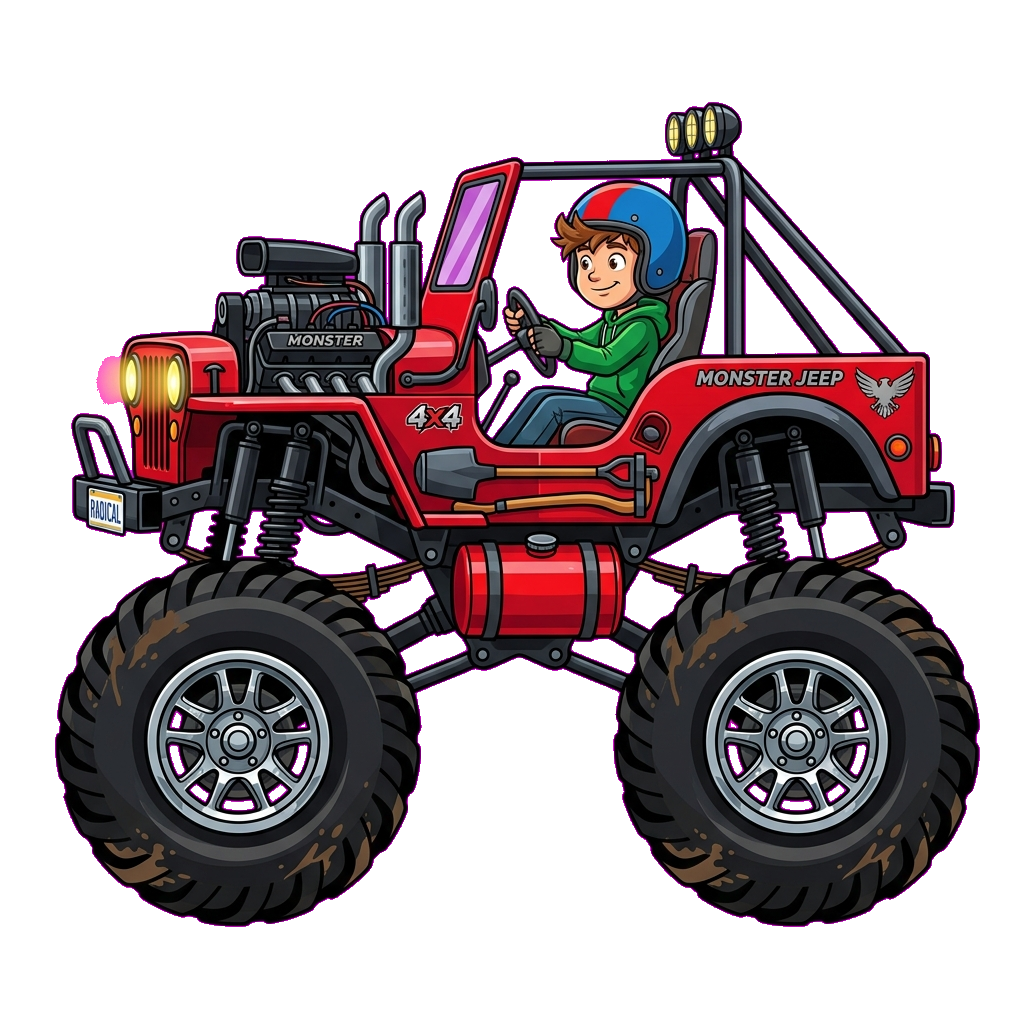
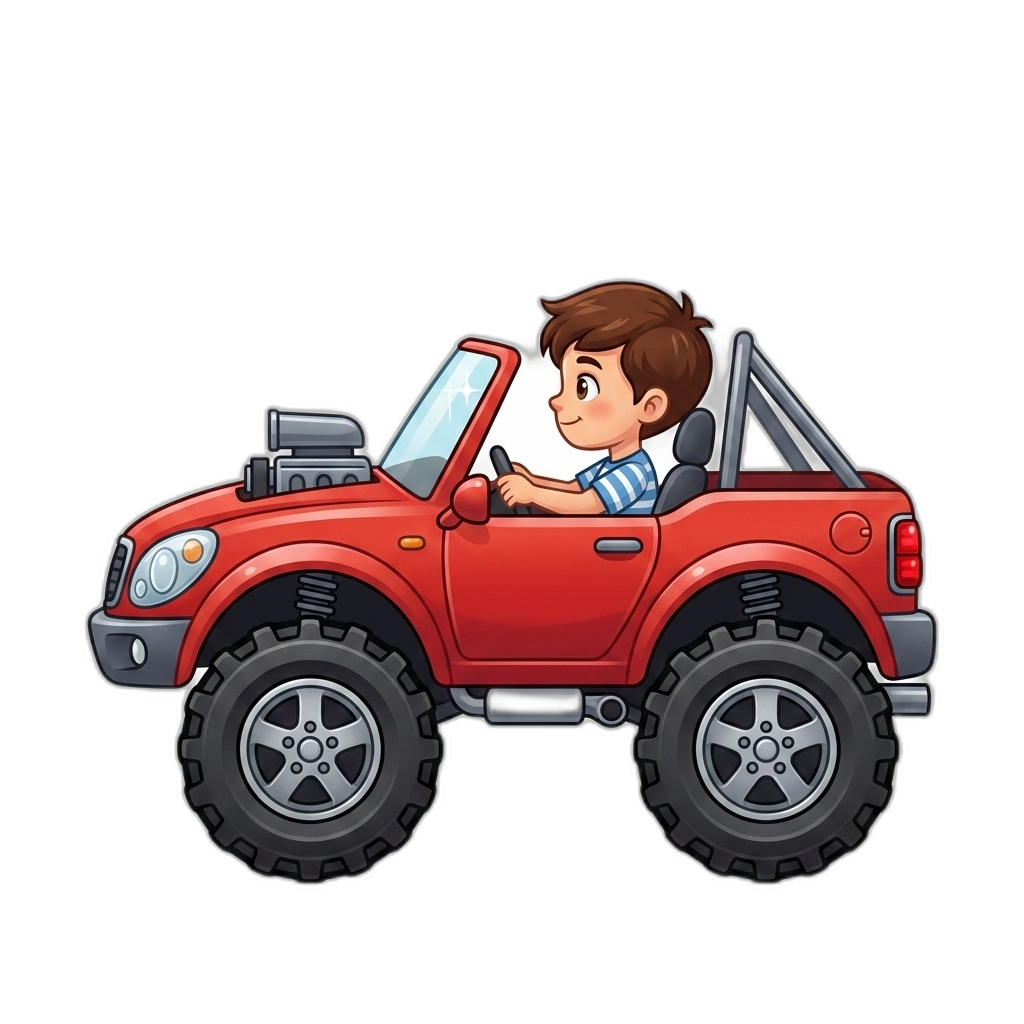
Update game with new jeep and seamless night background

diff --git a/src/scenes/BootScene.ts b/src/scenes/BootScene.ts
@@ -8,6 +8,7 @@ export class BootScene extends Phaser.Scene {
   preload() {
     this.load.image('real_car', 'car.png');
     this.load.image('driver', 'driver.png');
+    this.load.image('night_bg', 'night_bg_seamless.png');
     
     // Generate clean vector textures for everything else
     this.generateTextures();
@@ -18,16 +19,21 @@ export class BootScene extends Phaser.Scene {
   }
 
   private generateTextures() {
+    // Clear old textures
+    const keys = ['clean_wheel', 'clean_coin', 'clean_fuel'];
+    for (const key of keys) {
+      if (this.textures.exists(key)) this.textures.remove(key);
+    }
+
     const graphics = this.make.graphics({ x: 0, y: 0 }, false);
 
-    // Wheel texture (Dark grey tire, light grey rim, dots for rotation tracking)
+    // Wheel texture
     graphics.fillStyle(0x222222, 1);
     graphics.fillCircle(25, 25, 25);
     graphics.fillStyle(0x888888, 1);
     graphics.fillCircle(25, 25, 12);
     graphics.fillStyle(0x000000, 1);
     graphics.fillCircle(25, 25, 4);
-    // Draw bolts to make rotation visible
     graphics.fillStyle(0x000000, 1);
     graphics.fillCircle(25, 17, 3);
     graphics.fillCircle(25, 33, 3);
@@ -36,7 +42,7 @@ export class BootScene extends Phaser.Scene {
     graphics.generateTexture('clean_wheel', 50, 50);
     graphics.clear();
 
-    // Coin (Beautiful gold coin with a rim)
+    // Coin
     graphics.fillStyle(0xffaa00, 1);
     graphics.fillCircle(20, 20, 20);
     graphics.fillStyle(0xffd700, 1);
@@ -46,114 +52,14 @@ export class BootScene extends Phaser.Scene {
     graphics.generateTexture('clean_coin', 40, 40);
     graphics.clear();
 
-    // Fuel Pickup (Red jerry can)
+    // Fuel Pickup
     graphics.fillStyle(0xff0000, 1);
     graphics.fillRoundedRect(0, 5, 30, 35, 4);
     graphics.fillStyle(0xcc0000, 1);
-    graphics.fillRect(5, 15, 20, 20); // label
+    graphics.fillRect(5, 15, 20, 20);
     graphics.fillStyle(0x333333, 1);
-    graphics.fillRect(10, 0, 10, 5); // nozzle
+    graphics.fillRect(10, 0, 10, 5);
     graphics.generateTexture('clean_fuel', 30, 40);
-    graphics.clear();
-
-    this.generateBackgrounds();
-  }
-
-  private generateBackgrounds() {
-    const graphics = this.make.graphics({ x: 0, y: 0 }, false);
-
-    // Sky Gradient (just a tall solid color for now, light blue)
-    graphics.fillStyle(0x87CEEB, 1);
-    graphics.fillRect(0, 0, 1024, 1024);
-    graphics.generateTexture('bg_sky', 1024, 1024);
-    graphics.clear();
-
-    // Mountains (distant, bluish with snow caps)
-    for (let i = -100; i < 1100; i += 120 + Math.random() * 50) {
-      const height = 1024 - 300 - Math.random() * 300; // random peak height
-      const width = 150 + Math.random() * 100;
-      const peakX = i + width / 2;
-      
-      // Mountain Base
-      graphics.fillStyle(0x3E5A74, 1);
-      graphics.beginPath();
-      graphics.moveTo(i, 1024);
-      graphics.lineTo(peakX, height);
-      graphics.lineTo(i + width, 1024);
-      graphics.closePath();
-      graphics.fillPath();
-
-      // Snow Cap
-      graphics.fillStyle(0xE0F7FA, 1); // Ice white
-      graphics.beginPath();
-      const snowDepth = 100; 
-      const ratio = (width / 2) / (1024 - height);
-      const dx = snowDepth * ratio;
-      
-      graphics.moveTo(peakX, height); // Peak
-      graphics.lineTo(peakX - dx, height + snowDepth); // Left snow edge
-      graphics.lineTo(peakX - dx/2, height + snowDepth + 20); // Jagged middle left
-      graphics.lineTo(peakX + dx/2, height + snowDepth - 10); // Jagged middle right
-      graphics.lineTo(peakX + dx, height + snowDepth); // Right snow edge
-      graphics.closePath();
-      graphics.fillPath();
-    }
-    graphics.generateTexture('bg_mountains', 1024, 1024);
-    graphics.clear();
-
-    // Hills (midground, light green)
-    graphics.fillStyle(0x3E8E41, 1);
-    graphics.beginPath();
-    graphics.moveTo(0, 1024);
-    for(let i=0; i<1024; i+=150) {
-      graphics.lineTo(i + 75, 1024 - 250 - Math.random() * 100);
-      graphics.lineTo(i + 150, 1024);
-    }
-    graphics.lineTo(1024, 1024);
-    graphics.closePath();
-    graphics.fillPath();
-    graphics.generateTexture('bg_hills', 1024, 1024);
-    graphics.clear();
-
-    // Trees (foreground, beautiful multi-tiered pine trees)
-    for (let i = 20; i < 1024; i += 80 + Math.random() * 60) {
-      const trunkX = i;
-      const trunkY = 1024 - 40;
-      
-      // Trunk
-      graphics.fillStyle(0x5D4037, 1); // Dark brown
-      graphics.fillRect(trunkX, trunkY, 16, 40);
-
-      const center = trunkX + 8; // Center of the trunk
-      
-      // Bottom layer
-      graphics.fillStyle(0x1B5E20, 1); // Dark green
-      graphics.beginPath();
-      graphics.moveTo(center - 40, trunkY);
-      graphics.lineTo(center, trunkY - 80);
-      graphics.lineTo(center + 40, trunkY);
-      graphics.closePath();
-      graphics.fillPath();
-      
-      // Middle layer
-      graphics.fillStyle(0x2E7D32, 1); // Slightly lighter green
-      graphics.beginPath();
-      graphics.moveTo(center - 35, trunkY - 40);
-      graphics.lineTo(center, trunkY - 130);
-      graphics.lineTo(center + 35, trunkY - 40);
-      graphics.closePath();
-      graphics.fillPath();
-      
-      // Top layer
-      graphics.fillStyle(0x388E3C, 1); // Lightest green
-      graphics.beginPath();
-      graphics.moveTo(center - 25, trunkY - 90);
-      graphics.lineTo(center, trunkY - 180);
-      graphics.lineTo(center + 25, trunkY - 90);
-      graphics.closePath();
-      graphics.fillPath();
-    }
-    graphics.generateTexture('bg_trees', 1024, 1024);
     graphics.clear();
   }
 }

diff --git a/src/entities/Background.ts b/src/entities/Background.ts
@@ -2,35 +2,26 @@ import Phaser from 'phaser';
 
 export class Background {
   private scene: Phaser.Scene;
-  private bgSky!: Phaser.GameObjects.TileSprite;
-  private bgMountains!: Phaser.GameObjects.TileSprite;
-  private bgHills!: Phaser.GameObjects.TileSprite;
-  private bgTrees!: Phaser.GameObjects.TileSprite;
+  private bgImage!: Phaser.GameObjects.TileSprite;
 
   constructor(scene: Phaser.Scene) {
     this.scene = scene;
     const width = scene.scale.width;
     const height = scene.scale.height;
 
-    // The sky fills the screen
-    this.bgSky = scene.add.tileSprite(0, 0, width, height, 'bg_sky').setOrigin(0, 0).setScrollFactor(0);
+    // The image is 2048x420. Scale it so it fills the screen vertically.
+    const scale = Math.max(1, height / 420);
+    
+    this.bgImage = scene.add.tileSprite(0, 0, width / scale, 420, 'night_bg')
+      .setOrigin(0, 0)
+      .setScale(scale)
+      .setScrollFactor(0);
 
-    // Anchor mountains, hills, and trees to the bottom of the screen
-    this.bgMountains = scene.add.tileSprite(0, height, width, 1024, 'bg_mountains').setOrigin(0, 1).setScrollFactor(0);
-    this.bgHills = scene.add.tileSprite(0, height, width, 1024, 'bg_hills').setOrigin(0, 1).setScrollFactor(0);
-    this.bgTrees = scene.add.tileSprite(0, height, width, 1024, 'bg_trees').setOrigin(0, 1).setScrollFactor(0);
-
-    // Set depths so they are behind terrain
-    this.bgSky.setDepth(-10);
-    this.bgMountains.setDepth(-9);
-    this.bgHills.setDepth(-8);
-    this.bgTrees.setDepth(-7);
+    // Set depth so it is behind terrain
+    this.bgImage.setDepth(-10);
   }
-
   public update(playerX: number) {
-    // Parallax scrolling
-    this.bgMountains.tilePositionX = playerX * 0.1;
-    this.bgHills.tilePositionX = playerX * 0.3;
-    this.bgTrees.tilePositionX = playerX * 0.6;
+    // Scroll the entire image slowly to simulate a distant background
+    this.bgImage.tilePositionX = playerX * 0.15;
   }
 }

diff --git a/src/entities/Terrain.ts b/src/entities/Terrain.ts
@@ -117,7 +117,26 @@ export class Terrain {
     this.graphics.lineTo(this.segments[this.segments.length - 1].x, 3000);
     this.graphics.closePath();
     
+    // Dirt fill (Rich brown soil)
+    this.graphics.fillStyle(0x4a2e1b, 1);
     this.graphics.fillPath();
+
+    // Grass outline (Bright green)
+    this.graphics.beginPath();
+    this.graphics.moveTo(this.segments[0].x, this.segments[0].y);
+    for (let i = 0; i < this.segments.length; i++) {
+      this.graphics.lineTo(this.segments[i].x, this.segments[i].y);
+    }
+    this.graphics.lineStyle(16, 0x55cc33, 1); // Thick bright grass
+    this.graphics.strokePath();
+
+    // Secondary inner grass line (Darker green for depth)
+    this.graphics.beginPath();
+    this.graphics.moveTo(this.segments[0].x, this.segments[0].y + 6);
+    for (let i = 0; i < this.segments.length; i++) {
+      this.graphics.lineTo(this.segments[i].x, this.segments[i].y + 6);
+    }
+    this.graphics.lineStyle(8, 0x3d9921, 1); 
     this.graphics.strokePath();
   }
 

diff --git a/src/entities/Vehicle.ts b/src/entities/Vehicle.ts
@@ -29,6 +29,7 @@ export class Vehicle {
     });
     this.chassis.setScale(0.15); // Original is 1024x1024 -> ~154x154
     this.chassis.setDepth(10); // Bring chassis to front
+    this.chassis.setFlipX(true); // Flip the image horizontally so it faces right
 
     // Create Wheels
     const wheelOptions: Phaser.Types.Physics.Matter.MatterBodyConfig = {